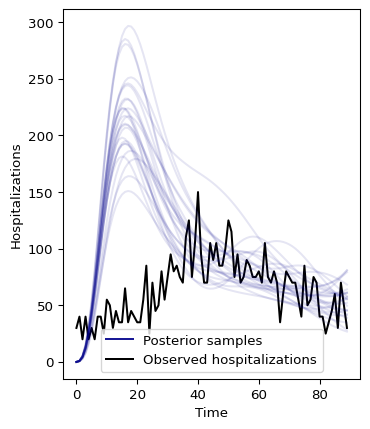
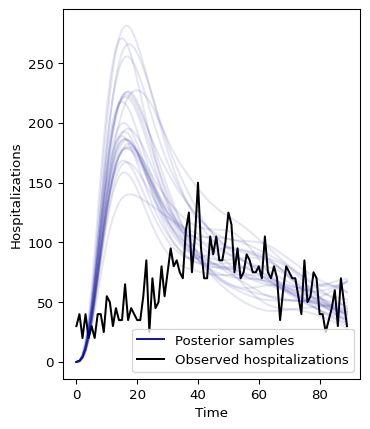
Adding weekday effect to model. Still not good enough

diff --git a/model/src/pyrenew/process/rtrandomwalk.py b/model/src/pyrenew/process/rtrandomwalk.py
@@ -84,7 +84,9 @@ class RtRandomWalkProcess(RandomVariable):
         Rt0_trans = self.Rt_transform(Rt0)
         Rt_trans_proc = SimpleRandomWalkProcess(self.Rt_rw_dist)
         Rt_trans_ts, *_ = Rt_trans_proc.sample(
-            duration=n_timepoints, name="Rt_transformed_rw", init=Rt0_trans
+            duration=n_timepoints,
+            name="Rt_transformed_rw",
+            init=Rt0_trans,
         )
 
         Rt = npro.deterministic("Rt", self.Rt_transform.inverse(Rt_trans_ts))

diff --git a/model/docs/example-with-datasets.md b/model/docs/example-with-datasets.md
@@ -12,10 +12,6 @@ from pyrenew.datasets import load_wastewater
 from pyrenew.model import HospitalizationsModel
 ```
 
-    /mnt/c/Users/xrd4/Documents/repos/msr/model/.venv/lib/python3.10/site-packages/tqdm/auto.py:21: TqdmWarning: IProgress not found. Please update jupyter and ipywidgets. See https://ipywidgets.readthedocs.io/en/stable/user_install.html
-      from .autonotebook import tqdm as notebook_tqdm
-    An NVIDIA GPU may be present on this machine, but a CUDA-enabled jaxlib is not installed. Falling back to cpu.
-
 ## Model definition
 
 In this section we provide the formal definition of the model. The
@@ -177,7 +173,7 @@ src="example-with-datasets_files/figure-commonmark/data-extract-output-2.png"
 id="data-extract-2" />
 
 With these two in hand, we can start building the model. First, we will
-define the latent hospitalizations.
+define the latent hospitalizations:
 
 ``` python
 from pyrenew.latent import HospitalAdmissions, InfectHospRate
@@ -188,7 +184,7 @@ import numpyro.distributions as dist
 inf_hosp_int = DeterministicPMF(inf_hosp_int)
 
 hosp_rate = InfectHospRate(
-    dist=dist.LogNormal(jnp.log(0.05), 0.05)
+    dist=dist.LogNormal(jnp.log(0.05), 0.01)
 )
 
 latent_hosp = HospitalAdmissions(
@@ -197,7 +193,13 @@ latent_hosp = HospitalAdmissions(
     )
 ```
 
-Now we can define the rest of the other model components:
+The `inf_hosp_int` is a `DeterministicPMF` object that takes the
+infection to hospitalization interval as input. The `hosp_rate` is an
+`InfectHospRate` object that takes the infection to hospitalization rate
+as input. The `HospitalAdmissions` class is a `RandomVariable` that
+takes two distributions as inputs: the infection to admission interval
+and the infection to hospitalization rate. Now we can define the rest of
+the other model components:
 
 ``` python
 from pyrenew.model import HospitalizationsModel
@@ -207,7 +209,7 @@ from pyrenew.observation import NegativeBinomialObservation
 
 # Infection process
 latent_inf = Infections()
-I0 = Infections0()
+I0 = Infections0(I0_dist=dist.LogNormal(loc=jnp.log(80/.05), scale=0.5))
 
 # Generation interval and Rt
 gen_int = DeterministicPMF(gen_int)
@@ -277,7 +279,7 @@ import jax
 
 model.run(
     num_samples=2000,
-    num_warmup=1000,
+    num_warmup=2000,
     n_timepoints=dat.shape[0] - 1,
     observed_hospitalizations=dat["hospitalizations"].to_numpy(),
     rng_key=jax.random.PRNGKey(54),
@@ -310,3 +312,118 @@ ax.legend()
 
 ![Hospitalizations posterior
 distribution](example-with-datasets_files/figure-commonmark/output-hospitalizations-output-1.png)
+
+The first half of the model is not looking good. We can try to improve
+the model by incorporating weekday effects. The following section will
+show how to do this.
+
+## Round 2: Incorporating weekday effects
+
+We will re-use the infection to admission interval and infection to
+hospitalization rate from the previous model. But we will also add a
+weekday effect distribution. To do this, we will create a new instance
+of `RandomVariable` to model the weekday effect. The weekday effect will
+be a truncated normal distribution with a mean of 1.0 and a standard
+deviation of 0.5. The distribution will be truncated between 0.1 and
+10.0. The weekday effect will be repeated for the number of weeks in the
+dataset.
+
+``` python
+from pyrenew.metaclass import RandomVariable
+import numpyro as npro
+
+class WeekdayEffect(RandomVariable):
+    """Weekday effect distribution"""
+    def __init__(self, len: int):
+        """ Initialize the weekday effect distribution
+        Parameters
+        ----------
+        len : int
+            The number of observations
+        """
+        self.nweeks = jnp.ceil(len/7).astype(int)
+        self.len = len
+
+    @staticmethod
+    def validate():
+        return None
+
+    def sample(self, **kwargs):
+        ans = npro.sample(
+            name="weekday_effect",
+            fn=npro.distributions.TruncatedNormal(
+                loc=1.0, scale=.5, low=0.1, high=10.0
+                ),
+            sample_shape=(7,)
+        )
+
+        return jnp.tile(ans, self.nweeks)[:self.len]
+
+# Initializing the weekday effect
+weekday_effect = WeekdayEffect(dat.shape[0])
+```
+
+Notice that the instance’s `nweeks` and `len` members are passed during
+construction. Trying to compute the number of weeks and the length of
+the dataset in the `validate` method will raise a `jit` error in `jax`
+as the shape and size of elements are not known during the validation
+step, which happens before the model is run. With the new weekday
+effect, we can rebuild the latent hospitalization model:
+
+``` python
+latent_hosp_wday_effect = HospitalAdmissions(
+    infection_to_admission_interval=inf_hosp_int,
+    infect_hosp_rate_dist=hosp_rate,
+    weekday_effect_dist=weekday_effect,
+    )
+
+model_weekday = HospitalizationsModel(
+    latent_infections=latent_inf,
+    latent_hospitalizations=latent_hosp_wday_effect,
+    I0=I0,
+    gen_int=gen_int,
+    Rt_process=process,
+    observed_hospitalizations=obs,
+)
+```
+
+Running the model:
+
+``` python
+model_weekday.run(
+    num_samples=2000,
+    num_warmup=2000,
+    n_timepoints=dat.shape[0] - 1,
+    observed_hospitalizations=dat["hospitalizations"].to_numpy(),
+    rng_key=jax.random.PRNGKey(54),
+    mcmc_args=dict(progress_bar=False),
+)
+```
+
+And plotting the results:
+
+``` python
+import polars as pl
+samps = model_weekday.spread_draws([('predicted_hospitalizations', 'time')])
+
+fig, ax = plt.subplots(figsize=[4, 5])
+
+ax.plot(dat["hospitalizations"].to_numpy(), color="black")
+samp_ids = np.random.randint(size=25, low=0, high=999)
+for samp_id in samp_ids:
+    sub_samps = samps.filter(pl.col("draw") == samp_id).sort(pl.col('time'))
+    ax.plot(sub_samps.select("time").to_numpy(),
+            sub_samps.select("predicted_hospitalizations").to_numpy(), color="darkblue", alpha=0.1)
+
+# Some labels
+ax.set_xlabel("Time")
+ax.set_ylabel("Hospitalizations")
+
+# Adding a legend
+ax.plot([], [], color="darkblue", alpha=0.9, label="Posterior samples")
+ax.plot([], [], color="black", label="Observed hospitalizations")
+ax.legend()
+```
+
+![Hospitalizations posterior
+distribution](example-with-datasets_files/figure-commonmark/output-hospitalizations-weekday-output-1.png)
